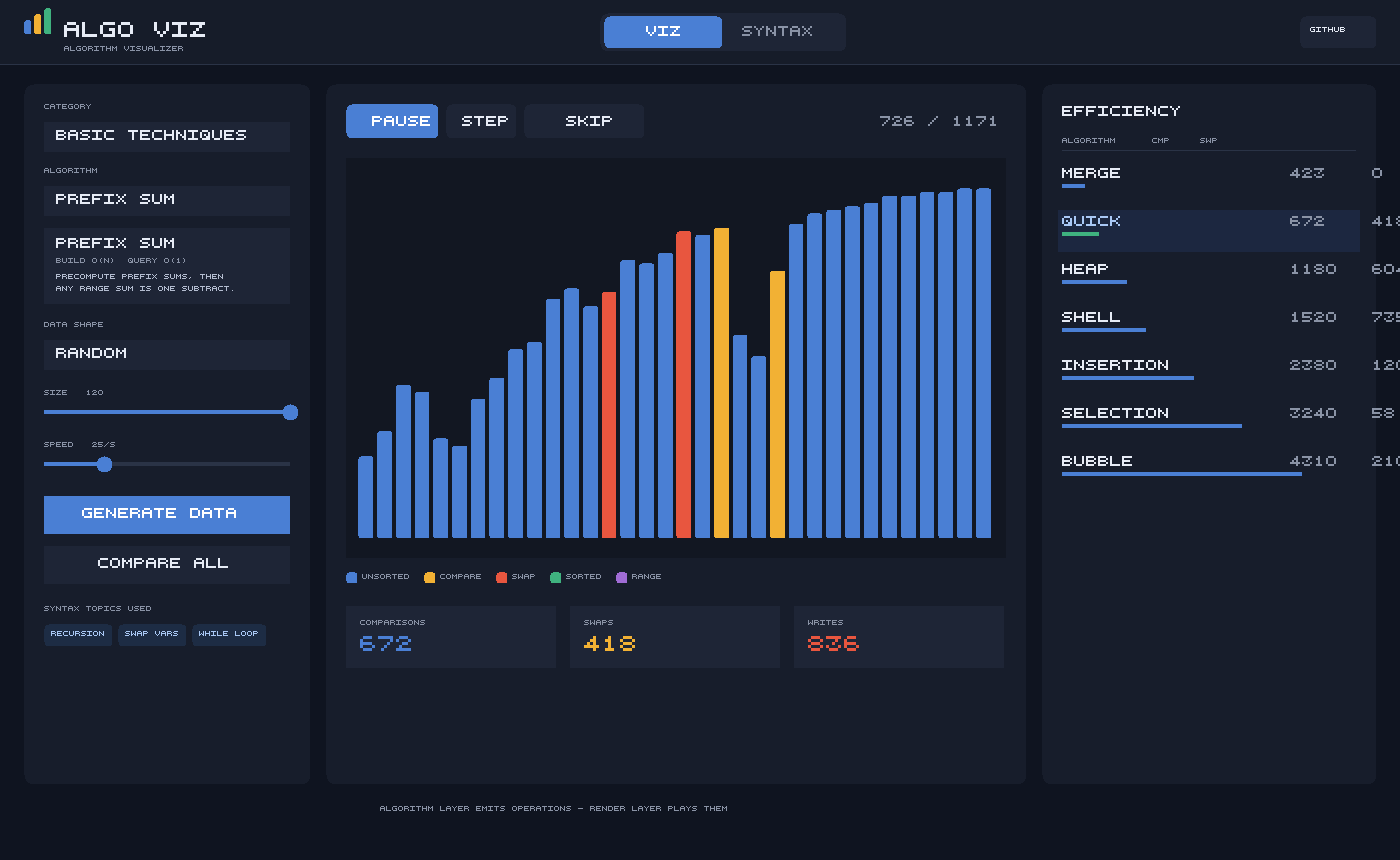
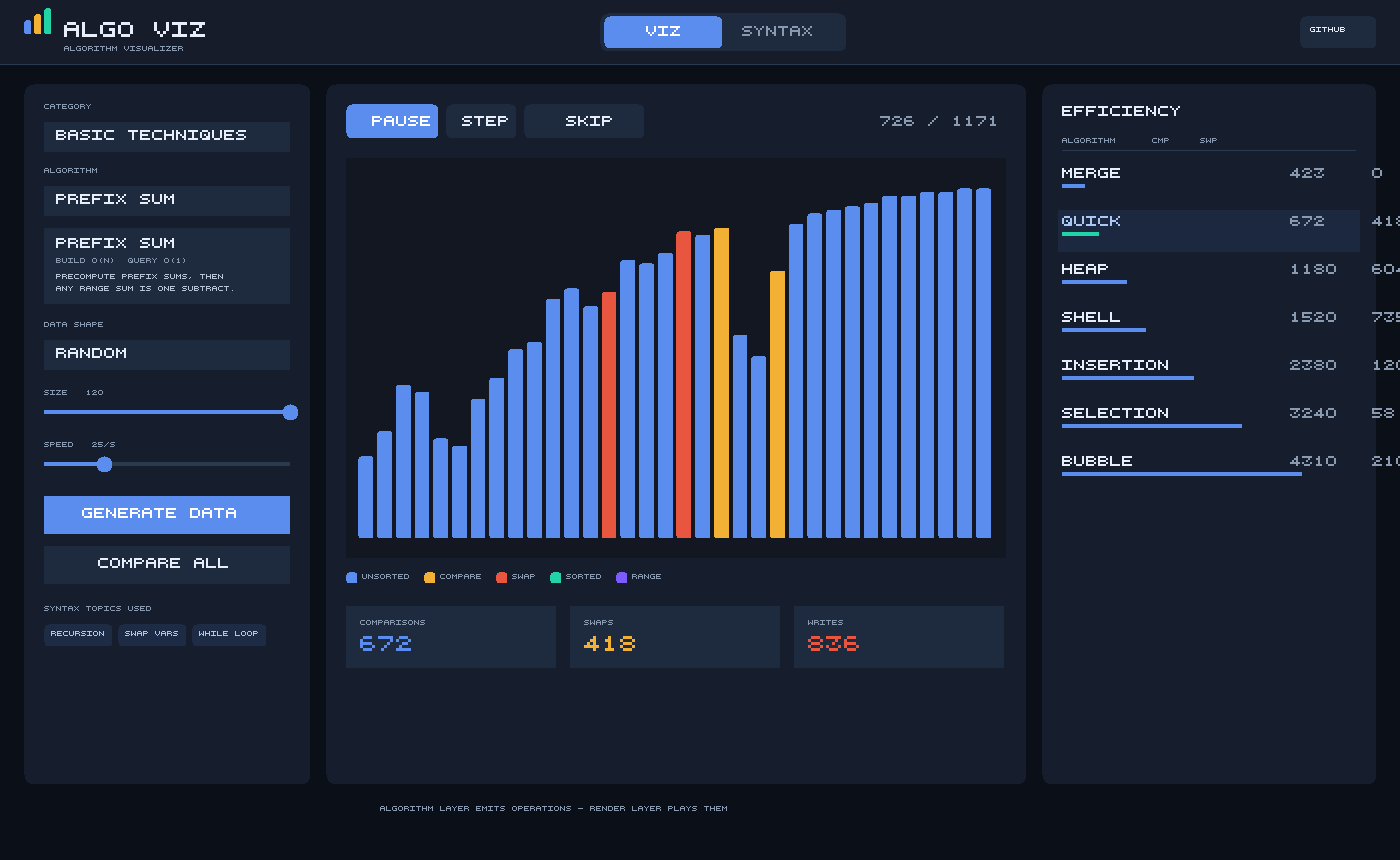
docs: README 同步真题章节与截图，测试脚本接入
- README 新增「洛谷真题与题单」章节：
  列出各知识点的精选真题示例、8 个真实题单链接、
  以及两层校验（联网 + 界面）的说明
- 各处数字同步：知识点 23 → 34，「46 个示例」→「57 个示例」
- 目录结构补上 cpp-detail-topics.js 与 problems.js

- 截图生成器同步新主题：调色板与 styles/theme.css 对齐
  （更深的底色、更亮的强调色），底部练习区改为展示**真实题号**
  （B2002 / P1000 / P1001）而不是占位文字

- package.json 接入新增测试：
  test:problems（界面校验）、test:problems:online（联网校验）

全部 9 个测试套件通过。

diff --git a/tests/make-screenshot.js b/tests/make-screenshot.js
@@ -145,10 +145,11 @@ function writePng(cv, file) {
   return png.length;
 }
 
+// 与 styles/theme.css 的新主题保持一致
 const C = {
-  bg: '#0f1420', panel: '#171d2b', elevated: '#1e2536', border: '#2a3346',
-  text: '#e6ebf5', muted: '#8a93a6', blue: '#4a7fd4', amber: '#f2b134',
-  red: '#e8563f', green: '#3fb27f', purple: '#a06cd5', dim: '#b4bdd0',
+  bg: '#0b1018', panel: '#161e2e', elevated: '#1e2a3e', border: '#2a3850',
+  text: '#e8eef9', muted: '#8a9ab0', blue: '#5b8def', amber: '#f2b134',
+  red: '#e8563f', green: '#22d3a8', purple: '#7c5cff', dim: '#b8c4d8',
 };
 
 function drawChrome(cv, activeTab) {
@@ -423,14 +424,17 @@ function drawSyntaxScreenshot() {
   // 如实标注：构建期编译，页面不能重跑
   cv.text(`COMPILER: G++ 16.2.0   (PAGE CANNOT RECOMPILE C++)`, 326, 672, C.muted, 1);
 
-  // 洛谷练习入口
-  cv.text('PRACTICE ON LUOGU', 326, 700, C.muted, 1);
-  let ux = 326;
-  for (const name of ['SEARCH: OUTPUT', 'INTRO PROBLEM SETS']) {
-    const w = Canvas.tw(name, 1) + 18;
-    cv.roundRect(ux, 718, w, 24, 5, '#1d2c44');
-    cv.text(name, ux + 9, 725, '#9ecbff', 1);
-    ux += w + 8;
+  // 洛谷精选真题（展示真实题号，与页面一致）
+  cv.text('PRACTICE ON LUOGU  (LINKS VERIFIED)', 326, 700, C.muted, 1);
+  const probs = (activeTopic && activeTopic.problems ? activeTopic.problems : []).slice(0, 3);
+  let pxx = 326;
+  for (const prob of probs) {
+    const label = prob.id;
+    const w = Canvas.tw(label, 1) + 20;
+    if (pxx + w > 1340) break;
+    cv.roundRect(pxx, 718, w, 24, 5, '#1d2c44');
+    cv.text(label, pxx + 10, 725, '#9ecbff', 1);
+    pxx += w + 8;
   }
   void CPP_BUILD_META;
 

diff --git a/README.md b/README.md
@@ -13,7 +13,7 @@
 | 页签 | 内容 | 适合谁 |
 |---|---|---|
 | **算法可视化** | **23 个**算法 / 数据结构，8 个分类，每类有专属渲染方式 | 想看「算法到底怎么跑的」 |
-| **C++ 语法 / STL** | **23 个** C++ 知识点（基础 12 + STL 11），示例经 g++ 真实编译 | 从零开始学 C++，或看不懂算法代码 |
+| **C++ 语法 / STL** | **34 个** C++ 知识点，示例经 g++ 真实编译；每个都配 2-5 道洛谷真题 | 从零开始学 C++，或看不懂算法代码 |
 
 两者是**互相跳转**的：每个算法旁边列出它用到的语法点，点一下跳到讲解；
 每个语法点底部列出用它的算法，点一下跳回动画。**看不懂哪行代码，就去点它。**
@@ -164,7 +164,7 @@ node tests/build-cpp.js --collect  # 阶段三：收集真实输出成 cpp-outpu
 |---|---|---|
 | 位运算 | O(1) | 把整数拆成二进制位，逐位展示与/或/异或，以及移位等于乘除 2 |
 
-### C++ 语法 / STL（23 个知识点，3 组）
+### C++ 语法 / STL（34 个知识点，4 组）
 
 | 分组 | 知识点 |
 |---|---|
@@ -180,7 +180,7 @@ node tests/build-cpp.js --collect  # 阶段三：收集真实输出成 cpp-outpu
 > 浏览器**无法执行 C++**，而本项目部署在 GitHub Pages（纯静态托管，没有后端）。
 > 所以 C++ 示例不可能像普通网页 demo 那样「点一下就重新编译运行」。
 >
-> 本项目采用的做法是：构建期把 46 个示例用 `g++ -std=c++17 -O2` **全部编译并运行一遍**，
+> 本项目采用的做法是：构建期把 57 个示例用 `g++ -std=c++17 -O2` **全部编译并运行一遍**，
 > 把真实 stdout 录进 `src/syntax/cpp-output.js`，页面读取展示。
 >
 > - ✅ 你看到的输出是**真实编译运行的结果**，不是我手写的
@@ -191,26 +191,47 @@ node tests/build-cpp.js --collect  # 阶段三：收集真实输出成 cpp-outpu
 
 ---
 
-## 洛谷练习入口
+## 洛谷真题与题单
 
-每个语法知识点和每个算法都配了**洛谷（luogu.com.cn）练习入口**：
+每个知识点和每个算法都配了 **2-5 道精选真题**，带题号、标题与直达链接：
 
-- **题目搜索**：跳转到洛谷站内搜索，关键词已填好（如「二分查找」「滑动窗口」「KMP」）
-- **题单入口**：洛谷官方题单列表页，可按难度和算法标签自己筛
+| 知识点 | 精选真题 |
+|---|---|
+| Hello World | B2002 Hello,World! · P1000 超级玛丽游戏 · P1001 A+B Problem |
+| 分支结构 | P5710 数的性质 · P5711 闰年判断 · P5712 Apples |
+| 循环结构 | P5718 找最小值 · P5719 分类平均 · P5720 一尺之棰 |
+| 数组 | P1428 小鱼比可爱 · P1427 小鱼的数字游戏 · P5727 冰雹猜想 |
+| 排序 | P1177【模板】排序 · P1271 选举学生会 · P1059 明明的随机数 |
+| 二分查找 | P2249【深基13.例1】查找 · P1102 A-B 数对 · P1678 烦恼的高考志愿 |
 
-**为什么只放搜索入口、不写死题号？**
+合计 **128 道题**，全部带链接。
 
-因为开发环境**没有网络出口**（`git ls-remote` / `Invoke-WebRequest` / Node `fetch` 到外网全部失败），
-无法联网核对题号是否仍然有效。洛谷的题目可能改名、下架或调整编号，
-**写死题号的风险是给出死链，那比不给更糟**。
+### 这些题目的来源
 
-搜索入口不会失效，而且能顺带看到题目的最新状态。测试里也有一条断言专门保证「没有写死题号」。
+题目**抓取自洛谷官方题单**，不是我凭记忆写的：
 
-> 如果你之后联网核对了题号，可以在 `src/syntax/luogu.js` 里给对应条目加 `exactProblems` 字段，
-> 界面会自动显示精确题目。
+- 【入门1】顺序结构 https://www.luogu.com.cn/training/100
+- 【入门2】分支结构 https://www.luogu.com.cn/training/101
+- 【入门3】循环结构 https://www.luogu.com.cn/training/102
+- 【入门4】数组 https://www.luogu.com.cn/training/103
+- 【入门5】字符串 https://www.luogu.com.cn/training/104
+- 【入门6】函数与结构体 https://www.luogu.com.cn/training/105
+- 【算法1-2】排序 https://www.luogu.com.cn/training/107
+- 【算法1-6】二分查找与二分答案 https://www.luogu.com.cn/training/111
 
----
+这些题单的官方描述明确写着「**以上题单的选题来自洛谷编写教材《深入浅出程序设计竞赛 - 基础篇》**」，
+所以它们就是「深入浅出」的配套题单。
 
+### 链接是核验过的
+
+`tests/verify-problems-ui.js` 与 `tests/verify-problems-online.js` 两层校验：
+
+1. **联网校验**：真的发 HTTP 请求，确认每个题号页面可访问、且页面标题以题号开头
+2. **界面校验**：确认 34 个知识点 + 23 个算法在页面上都真的渲染出了题目链接
+
+> 联网校验时踩过一个坑：洛谷会先返回 302 并要求带 cookie 重访同一地址，
+> 直接让 fetch 自动跟随会陷入循环并报 `redirect count exceeded`。
+> 需要手动跟随并携带 `C3VK` cookie。
 ## 核心设计：算法与渲染分离
 
 这是整个项目最重要的设计决策，也是它能从「7 个排序」扩展到「23 个算法 + 8 个分类 / 6 种渲染器」而没有失控的原因。
@@ -349,7 +370,10 @@ algo-viz/
 │   │   ├── factory.js           渲染器工厂 + 输入生成
 │   │   └── player.js            requestAnimationFrame 播放器
 │   └── syntax/
-│       ├── cpp-topics.js        23 个 C++ 知识点（完整可编译程序）
+│       ├── cpp-topics.js        23 个 C++ 知识点（基础 + STL）
+│       ├── cpp-detail-topics.js 11 个细化知识点（int/long long/float/double/溢出等）
+│       ├── problems.js          128 道洛谷真题（联网核验）
+│       ├── algorithms-cpp.js    （见 cpp-algos.js）
 │       ├── cpp-algos.js         23 个算法的 C++ 实现
 │       ├── cpp-output.js        构建期编译运行得到的真实输出
 │       ├── content.js           装配层（知识点 + 输出 + 练习链接）
@@ -394,7 +418,7 @@ algo-viz/
 
 ### C++ 教程内容（`tests/verify-cpp-content.js`）
 
-- **46 个 C++ 示例全部经 g++ 真实编译运行**（23 个知识点 + 23 个算法实现）
+- **57 个 C++ 示例全部经 g++ 真实编译运行**（34 个知识点 + 23 个算法实现）
 - 每个知识点都有完整代码（含 `#include` 与 `main`）、简介、要点、练习链接
 - **编译输出非空**：不允许出现「标记成功但输出为空」的情况
 - **内容确实是 C++**：检查没有残留 `console.log` / 箭头函数等 JS 写法
@@ -412,7 +436,7 @@ algo-viz/
 - **8 类渲染器**的播放控制（单步 / 跳转 / 重置）都正常
 - 统计标签随可视化类型变化（网格没有「交换次数」）
 - 对比表在排序与非比较排序两类下结果都正确
-- **23 个 C++ 知识点全部可选中，并展示完整代码与编译输出**
+- **34 个 C++ 知识点全部可选中，并展示完整代码、编译输出与真题**
 - 算法 ↔ 语法点双向跳转
 - 洛谷练习入口链接格式合法、关键词已编码、没有写死题号
 
